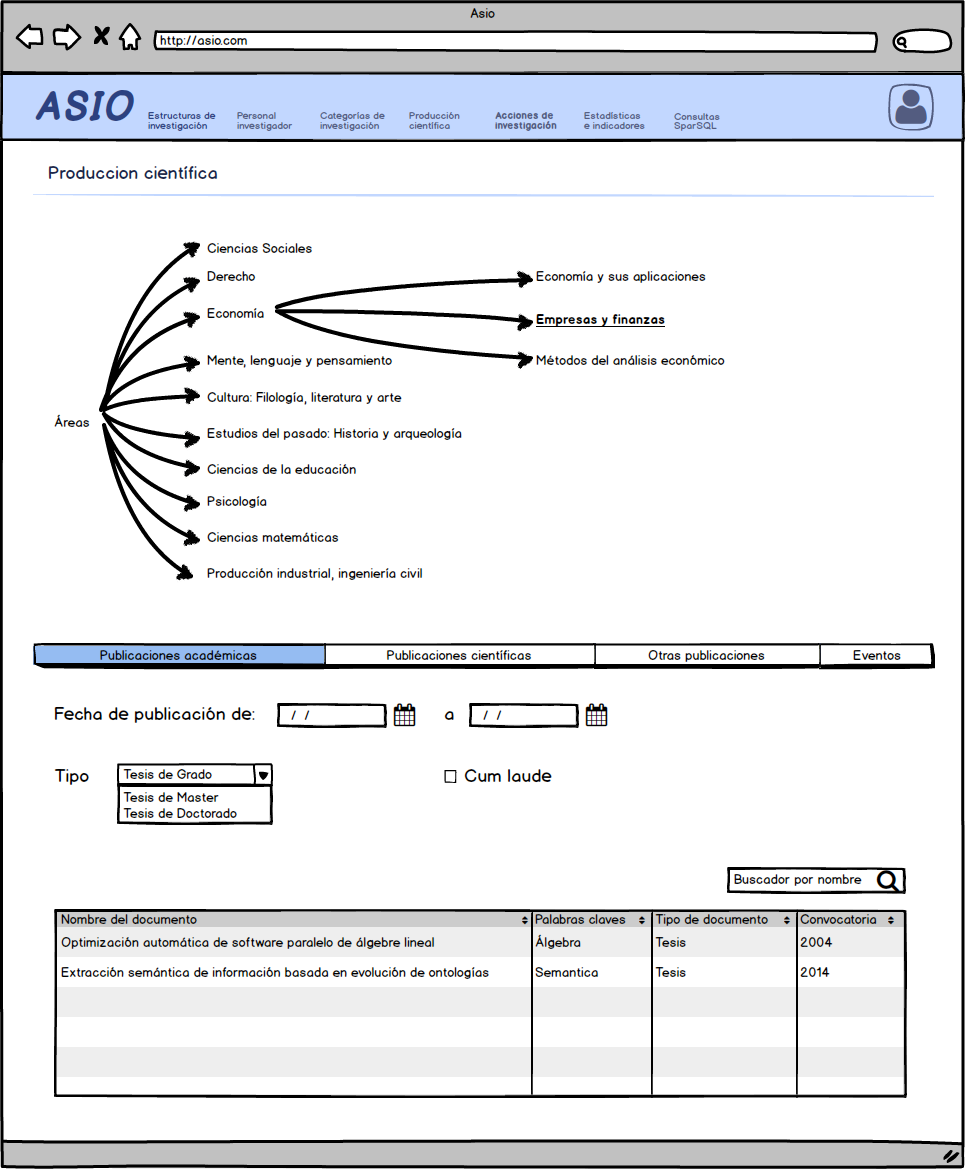
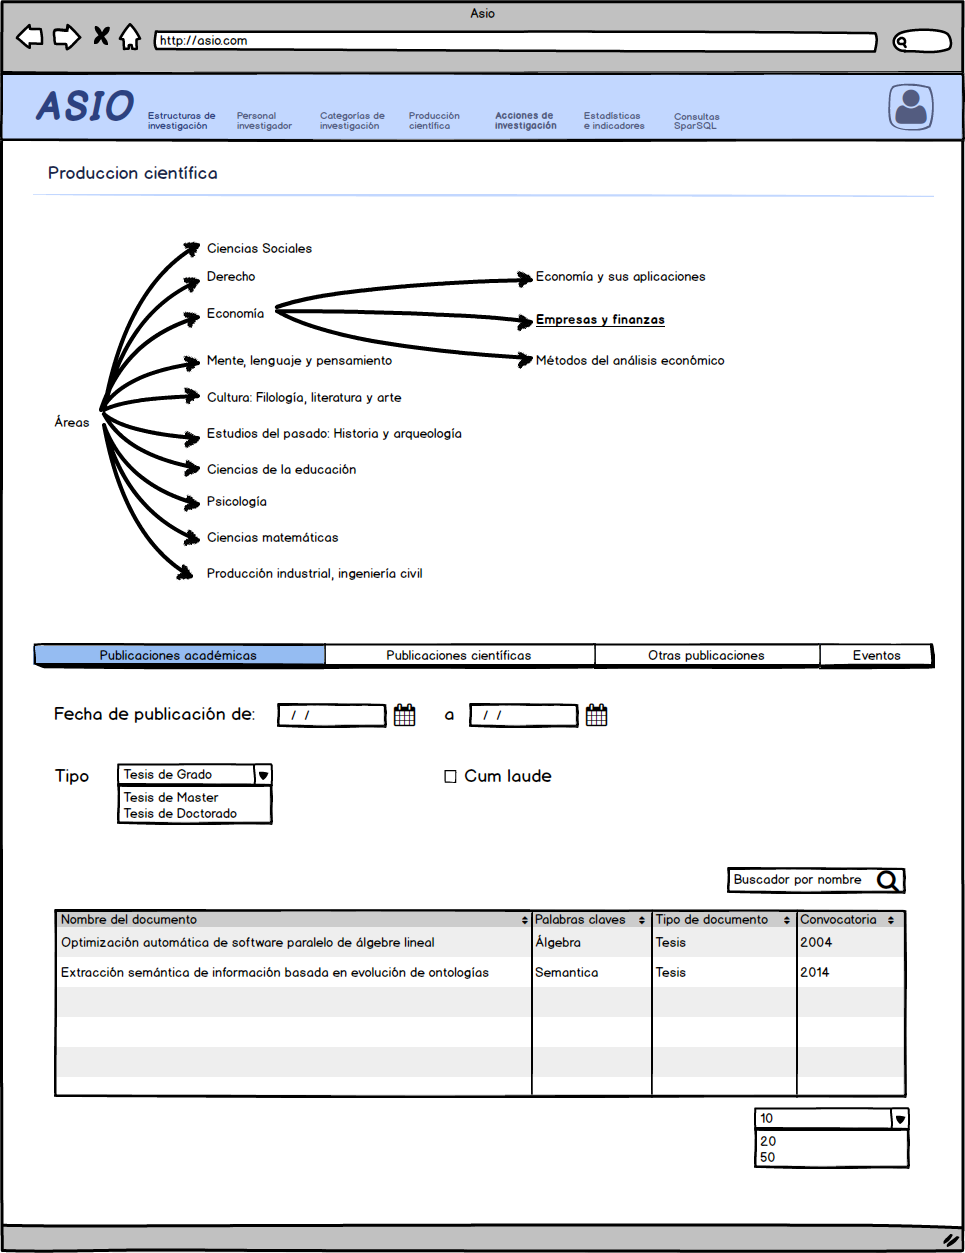
[SEMANTMURC-505] Crear mocks de producción científica Updated mocks with pagination. Person -> Event Updated

Changed region(s): [[0.0, 0.0, 1.0, 1.0]]

diff --git a/00-Análisis/Diseño de pantallas/Categorías y buscador.md b/00-Análisis/Diseño de pantallas/Categorías y buscador.md
@@ -324,7 +324,7 @@ La pantalla se dividirá en cuatro secciones:
 
 
 
-### Congresos
+### Eventos
 
 ![Detalle de personal investigador - congresos](./images/mocks/categorias/detalle-personal-investigador-congresos.png)
 
